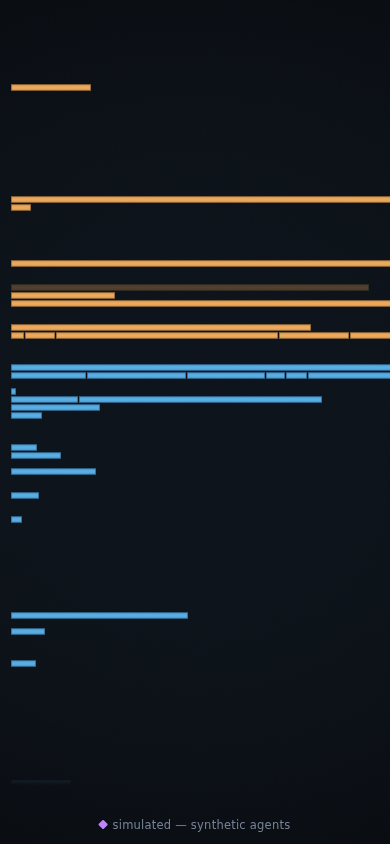
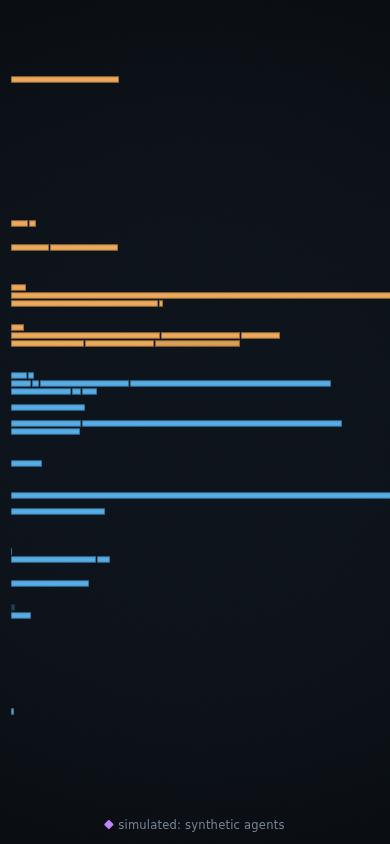
Rework the page copy: colon separators, an accurate cold-start label
The provenance labels, detector captions, explainer and WebGL2 message
used dashes as separators; they now use colons and full stops, which
read as a label and its value in the one-line provenance mark.

The cold-start label said "live feed unreachable", which is false when
synthetic mode is chosen with ?mode=synthetic. Both paths share the
label, so it now says what is true in both: the simulation is not
seeded from a real book. The explainer's "follow the market" line says
"the current price", and the credit line matches the README.

The social preview and the two synthetic README screenshots are
recaptured from the built site (synthetic, seed 42) so they show the
new label.

Claude-Session: https://claude.ai/code/session_01QZztmN3L85hZ3ZbSqNAAvX

diff --git a/src/ui/ui.ts b/src/ui/ui.ts
@@ -15,20 +15,20 @@ import type { FrameMeta, InspectionResult, MainToWorker, WorkerToMain } from "..
  */
 
 const MODE_LABEL: Record<string, string> = {
-  live: "live — Bitstamp BTC/USD order flow → local matching engine",
-  synthetic: "simulated — synthetic agents, seeded from the last real book",
-  "synthetic-cold": "simulated — synthetic agents (live feed unreachable)",
-  replay: "replay — recorded Bitstamp BTC/USD flow → local matching engine",
+  live: "live: Bitstamp BTC/USD order flow → local matching engine",
+  synthetic: "simulated: synthetic agents, seeded from the last real book",
+  "synthetic-cold": "simulated: synthetic agents, not seeded from a real book",
+  replay: "replay: recorded Bitstamp BTC/USD flow → local matching engine",
 };
 
 // The disclosure line is the piece's one standing sentence; on a phone the
 // desktop copy ellipsizes mid-word, so narrow screens get a short form with
 // the mode word still first (the label-leads rule is untouched).
 const MODE_LABEL_SHORT: Record<string, string> = {
-  live: "live — Bitstamp BTC/USD → local engine",
-  synthetic: "simulated — seeded from the last real book",
-  "synthetic-cold": "simulated — synthetic agents",
-  replay: "replay — recorded Bitstamp BTC/USD flow",
+  live: "live: Bitstamp BTC/USD → local engine",
+  synthetic: "simulated: seeded from the last real book",
+  "synthetic-cold": "simulated: synthetic agents",
+  replay: "replay: recorded Bitstamp BTC/USD flow",
 };
 
 /** A full chrome fade, 0 to 1 or back. A partial one (the target flipped
@@ -403,47 +403,47 @@ export class Ui {
     };
     section("What is this?",
       "A live financial market, drawn from its raw parts. Every rectangle is one real " +
-      "resting order on the Bitstamp BTC/USD order book — buyers below in blue, sellers " +
-      "above in amber — placed by someone, somewhere, right now. The gap in the middle is " +
+      "resting order on the Bitstamp BTC/USD order book, placed by someone, somewhere, " +
+      "right now: buyers below in blue, sellers above in amber. The gap in the middle is " +
       "the spread: the distance between the highest price anyone will pay and the lowest " +
       "price anyone will accept. Watch it breathe.");
     section("The queue is the point",
-      "At every price, orders wait in line — first to arrive, first to trade. That line is " +
+      "At every price, orders wait in line: first to arrive, first to trade. That line is " +
       "usually invisible: most market data adds the queue up into a single number. Here each " +
       "order keeps its place: cells near the center line are next to trade, cells at the tail " +
       "may wait hours. Brightness is age: a new order holds its full color for about a " +
       "minute, then slowly dims as it waits. " +
       "Tap any cell to see its position, how much is ahead of it, and how long it has waited.");
     section("What to watch for",
-      "Most quotes are withdrawn, not filled — the constant flicker is quoting machines " +
+      "Most quotes are withdrawn, not filled. The constant flicker is quoting machines " +
       "changing their minds hundreds of times a minute. A trade has no mark of its own: it " +
       "is the queue at the center line getting shorter, cells vanishing from the front of " +
       "the line where they were next to trade. A sweep is several prices emptying in a row, " +
       "one large order eating through them, and afterwards the market simply is somewhere " +
-      "else. Then watch the hole refill — that is liquidity healing. At rest the frame " +
+      "else. Then watch the hole refill: that is liquidity healing. At rest the frame " +
       "holds still on the book around the price; zoom in and a queue becomes countable, " +
       "one cell per order; zoom out and the far dim ones are wishes parked miles from the " +
       "price, some resting for days.");
     section("Finding your way",
       "Drag up or down to wander the price axis; scroll or pinch to zoom all " +
-      "the way from single orders out to the market's whole shape — once you " +
+      "the way from single orders out to the market's whole shape. Once you " +
       "set a zoom, it holds until you return. Arrow keys travel too: tap to " +
       "step a few rows, hold to accelerate through the book; PageUp and " +
       "PageDown leap a screen at a time. Double-tap, double-click, or Home " +
-      "snaps back to where the market is trading — a “follow the market” " +
-      "button also appears whenever you have wandered off. Space pauses; " +
+      "snaps back to the current price, and a “follow the market” button " +
+      "also appears whenever you have wandered off. Space pauses; " +
       "what you miss while paused replays on the way back, labeled.");
     section("Is it real?",
       "Yes, with one honest caveat. The order flow is Bitstamp's public feed, reconstructed " +
-      "through a matching engine built for this piece — so at rare margins its matches can " +
+      "through a matching engine built for this piece, so at rare margins its matches can " +
       "differ from the venue's own. The label at the bottom always says what you are seeing: " +
       "live, replay of a recording, or simulated (when the feed drops, synthetic traders " +
       "seeded from the last real book keep the market breathing until it returns). Nothing " +
       "on screen is decoration: every mark is caused by an order event.");
     el("h2", "", panel, "Credits");
     const credits = el("p", "", panel,
-      "A piece by Cameron Scarpati — a view of the beauty living inside market " +
-      "microstructure. Market data: Bitstamp (BTC/USD). Engine, reconstruction, and " +
+      "A piece by Cameron Scarpati: a view of the beauty living inside the order " +
+      "book. Market data: Bitstamp (BTC/USD). Engine, reconstruction, and " +
       "rendering are original work; source at ");
     const link = document.createElement("a");
     link.href = "https://github.com/CameronScarpati/price-time";

diff --git a/src/detect/detectors.ts b/src/detect/detectors.ts
@@ -108,7 +108,7 @@ export class Detectors {
     const verb = s.aggressor === S.Bid ? "buy" : "sell";
     this.say(
       "sweep",
-      `a ${verb} just swept ${s.ticks.size} levels — ${btc(s.sats)} in ${ms < 1000 ? `${ms}ms` : `${(ms / 1000).toFixed(1)}s`}`,
+      `a ${verb} just swept ${s.ticks.size} levels: ${btc(s.sats)} in ${ms < 1000 ? `${ms}ms` : `${(ms / 1000).toFixed(1)}s`}`,
       nowMs, 8_000,
     );
     s.endedMs = nowMs;
@@ -127,7 +127,7 @@ export class Detectors {
       if (w.depthAfter === undefined) {
         w.depthAfter = near;
       } else if (near >= w.depthAfter + w.sats * 0.7 && elapsed > 5_000) {
-        this.say("refill", `the hole just refilled — ${(elapsed / 1000).toFixed(0)}s to heal`, nowMs, 20_000);
+        this.say("refill", `the hole just refilled: ${(elapsed / 1000).toFixed(0)}s to heal`, nowMs, 20_000);
         this.watchingRefill = null;
       } else if (elapsed > 120_000) {
         this.watchingRefill = null;
@@ -141,7 +141,7 @@ export class Detectors {
     if (cancelsPerSec > this.cancelBaselinePerSec * 3 && this.cancelTimes.length > 120) {
       this.say(
         "cancel-storm",
-        `${this.cancelTimes.length} quotes pulled in 10s — ${(cancelsPerSec / Math.max(this.cancelBaselinePerSec, 0.1)).toFixed(0)}× the usual pace`,
+        `${this.cancelTimes.length} quotes pulled in 10s: ${(cancelsPerSec / Math.max(this.cancelBaselinePerSec, 0.1)).toFixed(0)}× the usual pace`,
         nowMs, 30_000,
       );
     }
@@ -163,7 +163,7 @@ export class Detectors {
       this.twoSidedSinceMs = null;
       if (stood && thick > 10_000_000) {
         const side = bid < ask ? "bid" : "offer";
-        this.say("vacuum", `the ${side} side just emptied near the touch — a liquidity vacuum`, nowMs, 30_000);
+        this.say("vacuum", `the ${side} side just emptied near the touch: a liquidity vacuum`, nowMs, 30_000);
       }
     } else if (thick > 0) {
       this.twoSidedSinceMs ??= nowMs;
@@ -174,7 +174,7 @@ export class Detectors {
     if (this.msgTimes.length < 40) {
       this.quietSince ??= nowMs;
       if (nowMs - this.quietSince > 30_000) {
-        this.say("quiet", "a quiet market — single orders are events now", nowMs, 120_000);
+        this.say("quiet", "a quiet market: single orders are events now", nowMs, 120_000);
       }
     } else {
       this.quietSince = null;

diff --git a/test/detect/vacuum.test.ts b/test/detect/vacuum.test.ts
@@ -53,7 +53,7 @@ describe("vacuum detector", () => {
     expect(d.currentCaption()).toBeNull();
     hold(d, 12_000, 12_100, 80 * M, 2 * M); // the offer side empties
     expect(d.currentCaption()?.text).toBe(
-      "the offer side just emptied near the touch — a liquidity vacuum",
+      "the offer side just emptied near the touch: a liquidity vacuum",
     );
   });
 

diff --git a/src/app.ts b/src/app.ts
@@ -27,7 +27,7 @@ function boot(): void {
   try {
     renderer = new Renderer(glCanvas, overlayCanvas, worker, ui);
   } catch {
-    ui.fatal("this piece needs WebGL2 — a browser from the last few years will have it");
+    ui.fatal("this piece needs WebGL2; a browser from the last few years will have it");
     return;
   }
 

diff --git a/.claude/skills/verifying-a-change/SKILL.md b/.claude/skills/verifying-a-change/SKILL.md
@@ -53,7 +53,7 @@ moving you can't name the event for.
 ## 4. Mode ladder (when touching pipeline/sources/ui)
 
 Kill the feed mid-session (stop the relay, or drop the network) and watch:
-label flips to "simulated — seeded from the last real book" at or before the
+label flips to "simulated: seeded from the last real book" at or before the
 texture changes, book does not jump, no spinner ever. Restore the feed; it
 should hand back to live within ~30s. Check `prefers-reduced-motion` still
 has designed motion, and Tab reaches every control.
